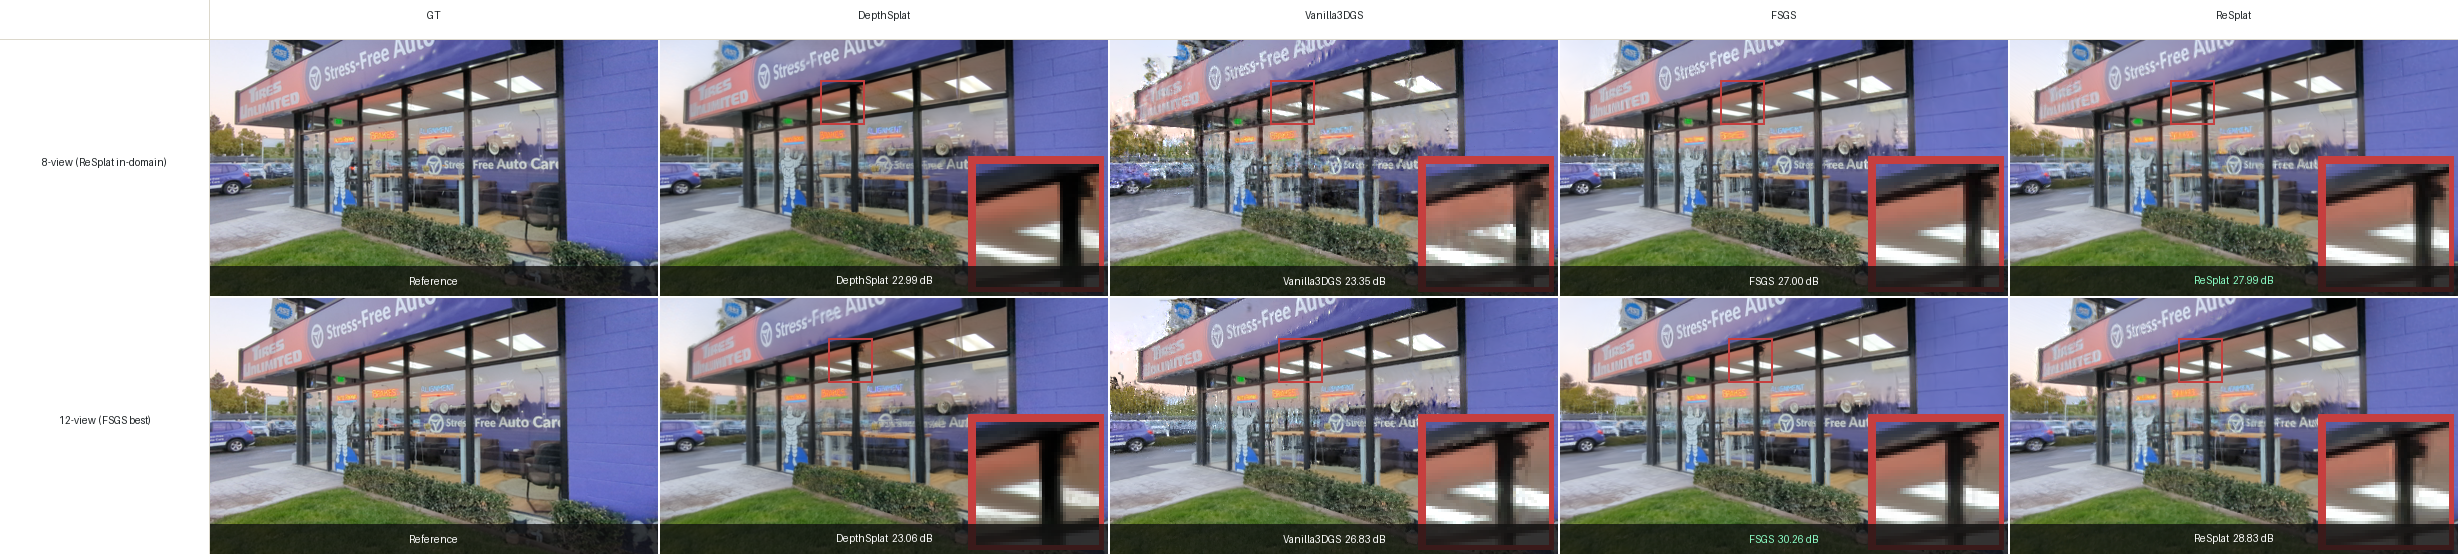
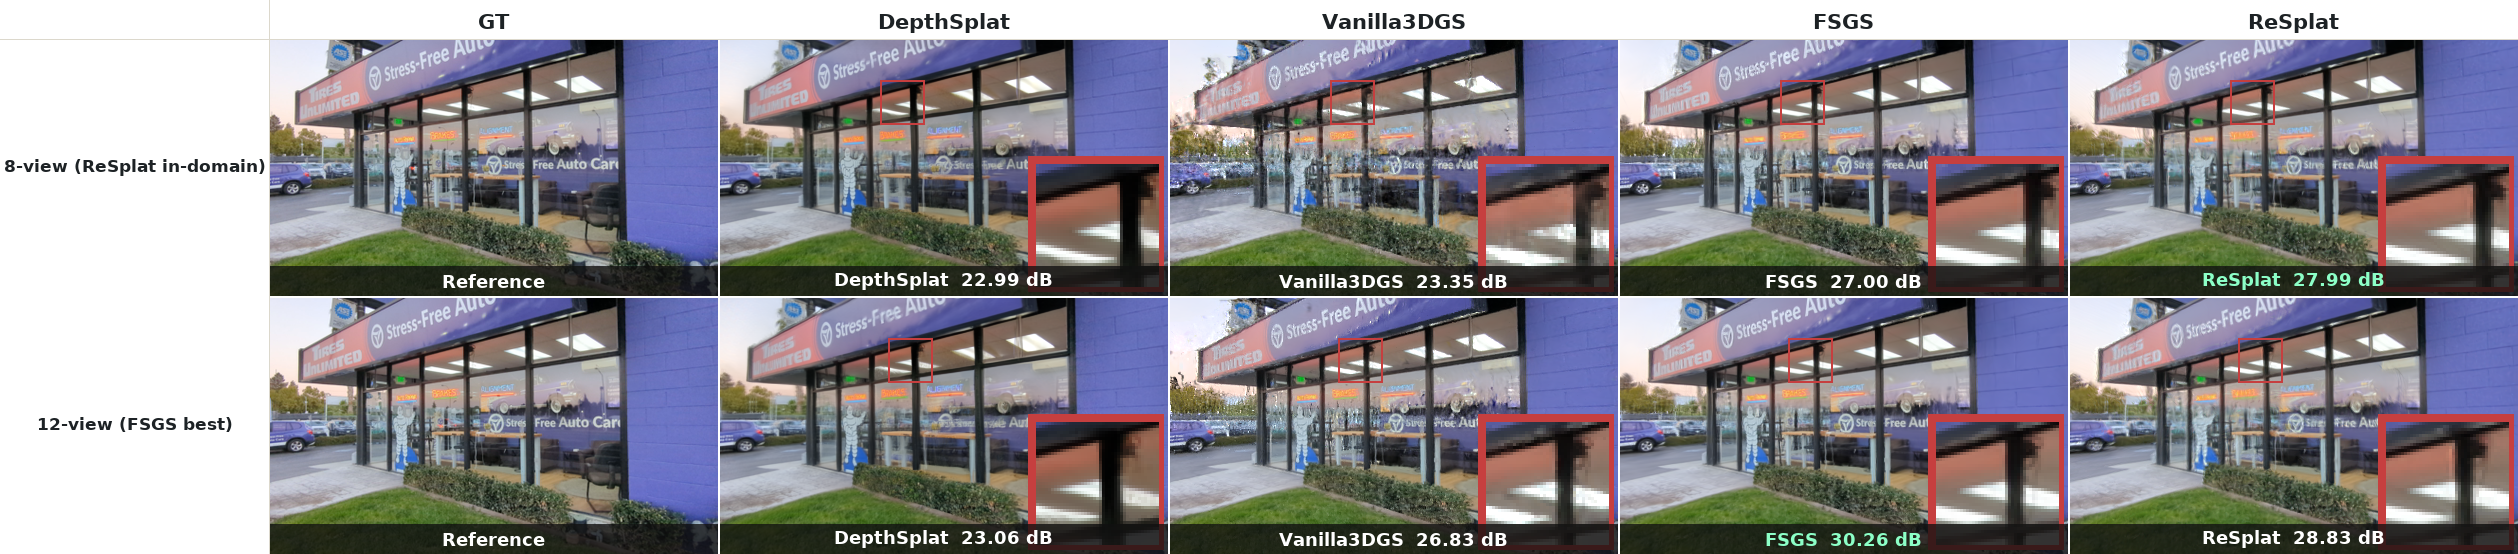
Fix bold font not actually rendering in qualitative comparison figures
The DejaVu font path (/usr/share/fonts/truetype/dejavu/) doesn't exist on
this machine, so load_font() was silently falling through to PIL's tiny
bitmap default font this whole time regardless of the size/bold args
passed - explains why the "bold" headers/PSNR labels never looked bold.
Pointed it at the DejaVuSans-Bold.ttf bundled with matplotlib instead
(confirmed present), and widened the row-label column twice (250->270px)
to stop the now-correctly-sized bold text from clipping.

diff --git a/experiments/scripts/analysis/assemble_qualitative_figure.py b/experiments/scripts/analysis/assemble_qualitative_figure.py
@@ -16,7 +16,7 @@ import numpy as np
 from PIL import Image, ImageDraw, ImageFont, ImageOps
 
 LABEL_H = 40
-ROW_LABEL_W = 210
+ROW_LABEL_W = 270
 GRID = "#dcd8cc"
 INK = "#1d2225"
 ACCENT = "#0d6e68"
@@ -26,10 +26,14 @@ INSET_SCALE = 3
 INSET_SIZE = 44  # crop 정사각형 한 변(원본 px)
 
 
+_FONT_DIR = "/opt/conda/envs/ps3/lib/python3.9/site-packages/matplotlib/mpl-data/fonts/ttf"
+
+
 def load_font(size: int, bold: bool = False):
-    path = "/usr/share/fonts/truetype/dejavu/DejaVuSans-Bold.ttf" if bold else "/usr/share/fonts/truetype/dejavu/DejaVuSans.ttf"
-    if Path(path).exists():
-        return ImageFont.truetype(path, size)
+    name = "DejaVuSans-Bold.ttf" if bold else "DejaVuSans.ttf"
+    path = Path(_FONT_DIR) / name
+    if path.exists():
+        return ImageFont.truetype(str(path), size)
     return ImageFont.load_default()
 
 
